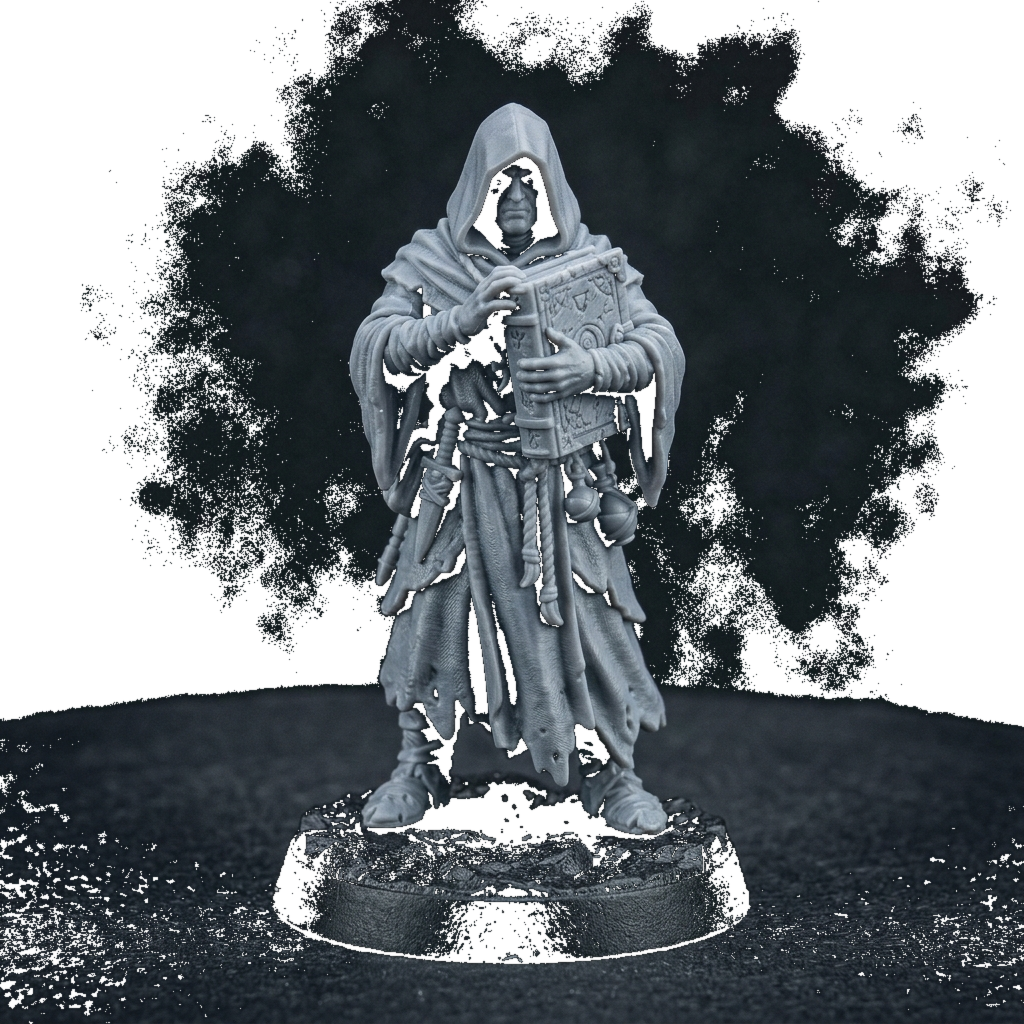
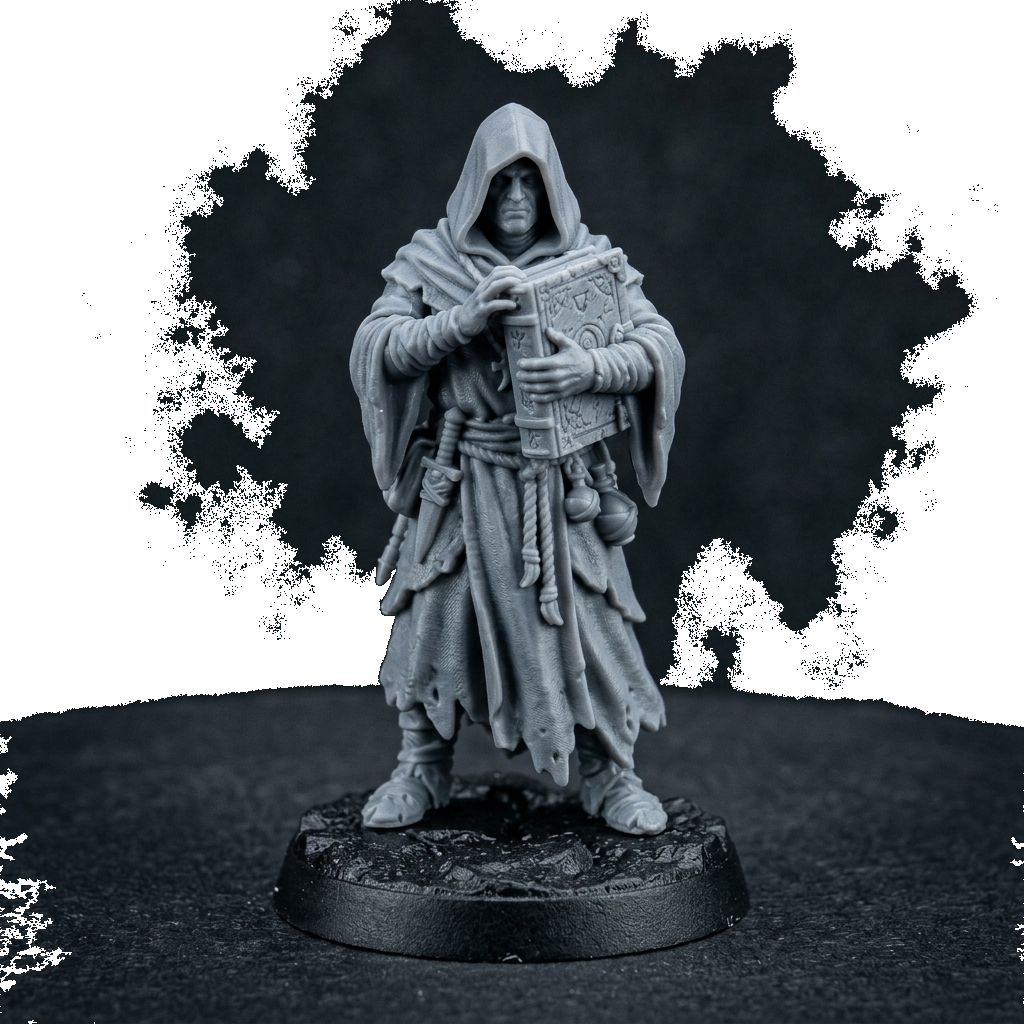
fix: remove dark rectangular box frame for clean borderless painted miniature cutouts on gold-rimmed faction pedestals

diff --git a/src/game/miniatures-3d.js b/src/game/miniatures-3d.js
@@ -83,21 +83,11 @@ export class MiniatureFactory {
     pLight.position.set(0, baseHeight + 0.6, 0.6);
     group.add(pLight);
 
-    // 2. Standing Deluxe 3D Acrylic Standee Frame Plaque
+    // 2. Standing Clean Miniature Artwork Standee (Borderless Cutout)
     const plaqueGroup = new THREE.Group();
     plaqueGroup.position.y = baseHeight + billHeight / 2;
 
-    // Metallic Outer Frame Bezel
-    const frameGeo = new THREE.BoxGeometry(billWidth + 0.16, billHeight + 0.16, 0.08);
-    const frameMat = new THREE.MeshStandardMaterial({
-      color: 0x1f1f24,
-      roughness: 0.3,
-      metalness: 0.85
-    });
-    const frameMesh = new THREE.Mesh(frameGeo, frameMat);
-    plaqueGroup.add(frameMesh);
-
-    // Front Painted Miniature Artwork Face
+    // Front & Back Clean Miniature Artwork Cutout Face
     const imgUrl = UNIT_IMAGES[unitType] || UNIT_IMAGES.cultist;
     const texture = getTexture(imgUrl);
 
@@ -110,14 +100,7 @@ export class MiniatureFactory {
 
     const faceGeo = new THREE.PlaneGeometry(billWidth, billHeight);
     const faceMesh = new THREE.Mesh(faceGeo, faceMat);
-    faceMesh.position.z = 0.05;
     plaqueGroup.add(faceMesh);
-
-    // Back Painted Miniature Artwork Face (Duplicate for 360° visibility)
-    const backMesh = new THREE.Mesh(faceGeo, faceMat);
-    backMesh.rotation.y = Math.PI;
-    backMesh.position.z = -0.05;
-    plaqueGroup.add(backMesh);
 
     group.add(plaqueGroup);
     group.userData = { isMiniature: true, billboard: plaqueGroup };
